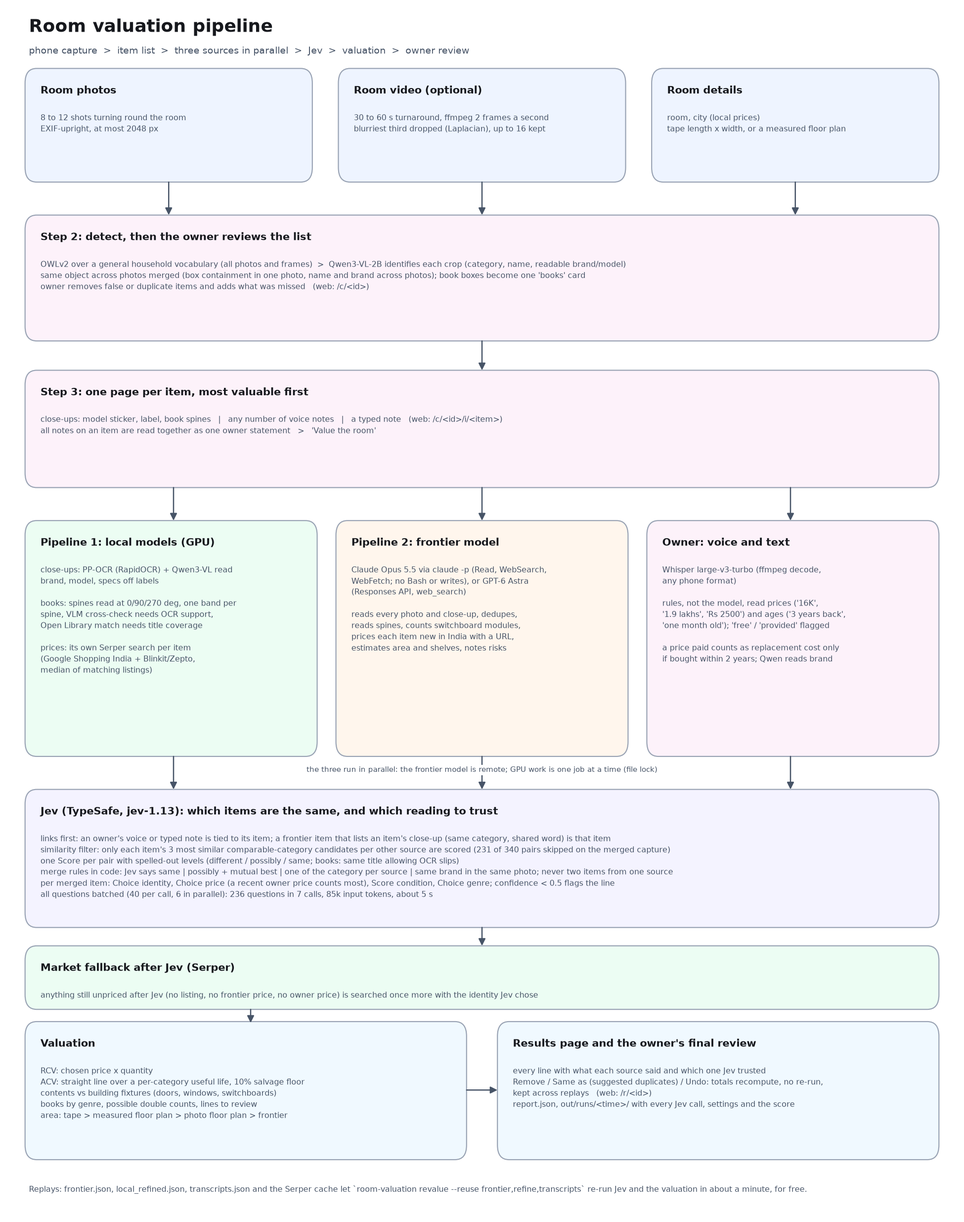
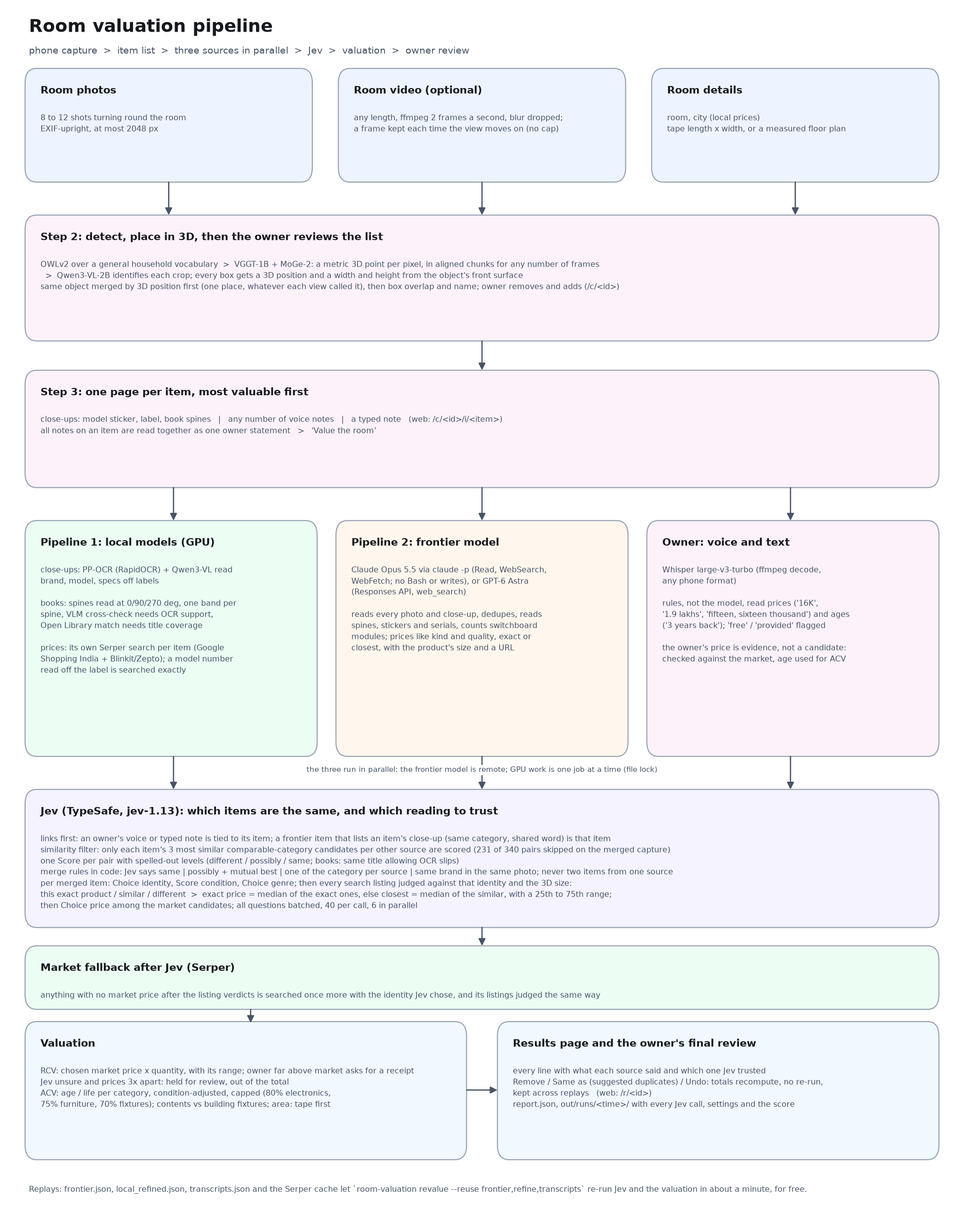
Results page and demo: price kind and range, held lines, listing verdicts, 3D tab
- Results: exact or closest under each price with its 25th to 75th range, held lines in
  yellow and out of the total, every listing with Jev's verdict and any size mismatch, the
  measured size.
- Demo: a 3D tab (top-down map and measured sizes), listing verdicts on the Jev tab, the
  new valuation rules, frames kept by coverage.
- Pipeline diagram redrawn.

diff --git a/web/static/demo.js b/web/static/demo.js
@@ -22,14 +22,14 @@ const byId = Object.fromEntries(D.items.map(i => [i.id, i]));
 const questions = Object.assign({}, ...D.jev_calls.map(c => Object.fromEntries(Object.entries(c.questions).map(([k, q]) => [k, { q, a: c.answers[k] }]))));
 
 const steps = [
-  ["Capture", capture], ["Detect", detect], ["Owner's list", ownerList], ["Item pages", itemPages],
+  ["Capture", capture], ["Detect", detect], ["3D", place3d], ["Owner's list", ownerList], ["Item pages", itemPages],
   ["Pipeline 1: local", pipeline1], ["Pipeline 2: Opus", pipeline2], ["Jev", jev], ["Valuation", valuation], ["Ground truth", truth],
 ];
 
 function capture() {
   const m = D.meta;
   return `<section><h2>Step 1: the owner photographs and films the room</h2>
-    ${say("Photos, a video or both. For a video the app takes 2 frames a second, drops the blurriest third and keeps up to 16. Everything below is the real capture, nothing staged.")}
+    ${say("Photos, a video or both. For a video the app takes 2 frames a second, drops motion blur, and keeps a frame each time the view has moved on to something new: no cap, so a longer walk-through of more room keeps more frames. Everything below is the real capture, nothing staged.")}
     <div class="stats">${stat(esc(m.room), esc(m.city) + " (local prices)")}${stat(roomPhotos.length, "room photos")}
       ${stat(frames.length, "sharp frames from the video")}${stat(closeups.length, "close-ups")}
       ${stat(D.items.reduce((n, i) => n + i.voice.length, 0), "voice notes")}
@@ -75,8 +75,31 @@ function showPhoto(p) {
   document.querySelectorAll("#viewer .box").forEach(b => b.onclick = () => {
     const d = dets[b.dataset.k], it = boxItem[boxKey(p, d.detector.box)];
     document.getElementById("boxinfo").innerHTML = `<b>OWLv2:</b> "${esc(d.detector.prompt)}" at ${d.detector.score.toFixed(2)} &nbsp; <b>Qwen3-VL:</b> ${esc(d.vlm?.category)} / ${esc(d.vlm?.name)}${d.vlm?.brand ? " / " + esc(d.vlm.brand) : ""}
-      ${it ? ` &nbsp; <b>Item:</b> ${esc(it.name)} (${esc(it.id)}, ${it.state === "removed" ? '<span class="flag">removed by the owner</span>' : "kept"})` : ""}`;
+      ${it ? ` &nbsp; <b>Item:</b> ${esc(it.name)} (${esc(it.id)}, ${it.state === "removed" ? '<span class="flag">removed by the owner</span>' : "kept"})` : ""}
+      ${it?.measured ? ` &nbsp; <b>3D:</b> about ${it.measured.width_cm} x ${it.measured.height_cm} cm, seen in ${it.measured.views} view${it.measured.views > 1 ? "s" : ""}` : ""}`;
   });
+}
+
+function place3d() {
+  const g = D.geometry, placed = D.items.filter(i => i.measured);
+  if (!g || !placed.length) return `<section><h2>3D</h2><p class="hint">This capture was detected before the 3D step existed.</p></section>`;
+  // Top-down map: x across, z down, one dot per item, coloured kept or removed.
+  const xs = placed.map(i => i.measured.position_m[0]), zs = placed.map(i => i.measured.position_m[2]);
+  const [x0, x1, z0, z1] = [Math.min(...xs), Math.max(...xs), Math.min(...zs), Math.max(...zs)];
+  const W = 640, H = Math.max(260, Math.round(W * (z1 - z0 + 0.6) / (x1 - x0 + 0.6)));
+  const px = x => 30 + (x - x0) / (x1 - x0 + 1e-6) * (W - 60), pz = z => 20 + (z - z0) / (z1 - z0 + 1e-6) * (H - 40);
+  const dots = placed.map(i => `<g><circle cx="${px(i.measured.position_m[0])}" cy="${pz(i.measured.position_m[2])}" r="${Math.min(14, 3 + Math.max(i.measured.width_cm, i.measured.height_cm) / 20)}"
+      fill="${i.state === "removed" ? "#f79009" : "#12b76a"}" fill-opacity=".55"><title>${esc(i.name)}: ${i.measured.width_cm} x ${i.measured.height_cm} cm</title></circle>
+      <text x="${px(i.measured.position_m[0]) + 8}" y="${pz(i.measured.position_m[2]) + 4}" font-size="10" fill="#344054">${esc(i.name.slice(0, 18))}</text></g>`).join("");
+  return `<section><h2>Step 2b: every object placed in 3D</h2>
+    ${say("VGGT turns every photo and frame into a 3D point per pixel and a camera pose, in one world; MoGe-2 gives the metric scale. Each detection box becomes the points of the object's front surface: their median is where the object is, their spread its width and height. Two boxes at one place are one object, whatever each view called it; two same-named objects far apart stay two. Sizes are estimates: they only rule out a product at nearly double or half the size.")}
+    <div class="stats">${stat(g.images, "photos and frames reconstructed")}${stat(g.chunks, "VGGT chunks, aligned")}${stat(g.metric_scale, "metric scale (MoGe-2)")}${stat(placed.length, "items placed")}</div></section>
+    <section><h2>Seen from above</h2><svg viewBox="0 0 ${W} ${H}" style="width:100%;max-width:${W}px;background:#fff;border:1px solid #e4e7ec;border-radius:8px">${dots}</svg>
+      <p class="hint">Green: kept by the owner. Orange: removed. Circle size follows the measured size.</p></section>
+    <section><h2>Measured sizes</h2><table><tr><th>Item</th><th>State</th><th class="num">Width</th><th class="num">Height</th><th class="num">Views</th><th class="num">Spread</th></tr>
+      ${placed.sort((a, b) => b.measured.width_cm * b.measured.height_cm - a.measured.width_cm * a.measured.height_cm).map(i => `<tr><td>${esc(nm(i.brand, i.name))}</td><td>${esc(i.state)}</td>
+        <td class="num">${i.measured.width_cm} cm</td><td class="num">${i.measured.height_cm} cm</td><td class="num">${i.measured.views}</td><td class="num">${i.measured.spread_m} m</td></tr>`).join("")}</table>
+      <p class="hint">Spread: how far apart the views put it. Large for a curtain seen along its length, small for a laptop.</p></section>`;
 }
 
 function card(i) {
@@ -174,10 +197,29 @@ function jev() {
       ${stat(D.jev_calls.length, "calls (40 questions each)")}${stat(Math.round(tot.t / 1000) + "k", "input tokens")}${stat(tot.s.toFixed(1) + " s", "Jev time")}</div>
     <div class="muted">What Jev is told about the sources</div><pre>${esc(JSON.stringify(D.jev_calls[0]?.state, null, 1))}</pre></section>
     ${pairIdx >= 0 ? `<section><h2>Example: are these two readings the same ${esc(pl.category.replace("_", " "))}?</h2>${jevQ("pair_" + pairIdx)}</section>` : ""}
+    ${listingExample()}
     ${lap ? `<section><h2>Example: which ${esc(lap.category.replace("_", " "))} price to trust?</h2>${jevQ("price_" + lap.n)}</section>` : ""}
     <section><h2>Any line: every question Jev was asked about it</h2>
       <select id="jevline">${R.items.map(l => `<option value="${l.n}">${l.name.replace(/<[^>]+>/g, "")}</option>`).join("")}</select>
       <div id="jevout" style="margin-top:10px"></div></section>`;
+}
+
+const VERDICT = { exact: "this product", similar: "similar product", different: "different product" };
+const listingRows = ls => ls.filter(li => li.verdict).map(li => `<tr><td>${esc(VERDICT[li.verdict])}</td><td>${esc(li.title)}${li.size_mismatch ? `<div class="flag">size: ${esc(li.size_mismatch)}</div>` : ""}</td>
+  <td class="num">${inr(li.price)}</td><td class="muted">${esc(li.seller || "")}</td><td class="num">${li.jev_score ?? ""}</td></tr>`).join("");
+
+function listingExample() {
+  const lj = R.listings_judged;
+  if (!lj) return "";
+  // the line whose local listings Jev split most ways
+  const kinds = l => new Set((l.candidates?.local?.listings || []).map(li => li.verdict)).size;
+  const ex = [...R.items].sort((a, b) => kinds(b) - kinds(a) || (b.rcv_inr || 0) - (a.rcv_inr || 0))[0];
+  const ls = ex?.candidates?.local?.listings || [];
+  return `<section><h2>Listings: is this the product, a similar one, or a different one?</h2>
+    ${say("After Jev settles what each item is, it reads every shopping listing behind a search price and judges it against that identity and the size measured in 3D. The exact price is the median of the listings of this product; failing that, the closest price is the median of the similar ones. A listing far from the measured size is a different product.")}
+    <div class="stats">${stat(lj.exact, "listings: this product")}${stat(lj.similar, "similar")}${stat(lj.different, "different")}</div>
+    ${ls.length ? `<h2>${label(ex)}: its local search listings</h2><table><tr><th>Jev</th><th>Listing</th><th class="num">Price</th><th>Seller</th><th class="num">Score</th></tr>${listingRows(ls)}</table>
+      <p class="hint">Priced at ${inr(ex.candidates.local.rcv_inr)} (${esc(ex.candidates.local.price_kind || "no price")}): ${esc(ex.candidates.local.price_note || "")}</p>` : ""}</section>`;
 }
 
 function showLine(n) {
@@ -186,6 +228,8 @@ function showLine(n) {
   document.getElementById("jevline").value = n;
   document.getElementById("jevout").innerHTML = `<p class="hint">Merged from: ${ids.map(esc).join(", ")}</p>` +
     ["id", "price", "cond", "genre"].map(t => questions[`${t}_${n}`] ? `<h2>${{ id: "Identity", price: "Price", cond: "Condition", genre: "Genre" }[t]}</h2>${jevQ(`${t}_${n}`)}` : "").join("") +
+    Object.entries(l.candidates || {}).filter(([, c]) => (c.listings || []).some(li => li.verdict)).map(([s, c]) =>
+      `<h2>Listings behind the ${s === "frontier" ? "Opus" : s} price</h2><table><tr><th>Jev</th><th>Listing</th><th class="num">Price</th><th>Seller</th><th class="num">Score</th></tr>${listingRows(c.listings)}</table>`).join("") +
     (pairs.length ? `<h2>Pair scores involving these items</h2><table><tr><th>a</th><th>b</th><th>same</th><th>possibly</th><th>different</th><th>score</th></tr>
       ${pairs.map(([p]) => `<tr><td>${esc(p.a)}</td><td>${esc(p.b)}</td><td>${pct(p.p_same)}</td><td>${pct(p.p_maybe)}</td><td>${pct(p.p_different)}</td><td>${p.score}</td></tr>`).join("")}</table>` : "");
 }
@@ -196,10 +240,11 @@ function valuation() {
   const lb = R.leaderboard || {};
   setTimeout(() => document.querySelectorAll("tr.line").forEach(tr => tr.onclick = () => toggle(tr)), 0);
   return `<section><h2>Valuation</h2>
-    ${say("RCV is the chosen price times quantity. ACV is straight-line over a per-category life, with a 10% salvage floor. Building fixtures are totalled apart, since they fall under the building policy.")}
+    ${say("RCV is the market price Jev trusts times quantity: exact when a listing is this model, otherwise the closest similar product, with the 25th to 75th percentile of its listings. The owner's own price is evidence, not a candidate: far above the market, the line asks for a receipt. When Jev is unsure and the prices are 3 or more times apart, the line is held for review and left out of the total. ACV is straight-line over a per-category life, adjusted for condition and capped as US adjusters do (80% for electronics, 75% furniture, 70% building fixtures, 50% books). Building fixtures are totalled apart, since they fall under the building policy.")}
     <div class="stats">${stat(inr(t.rcv_inr), "total replacement (RCV)")}${stat(inr(t.acv_inr), "after depreciation (ACV)")}
       ${stat(inr(t.contents.rcv_inr), "contents RCV")}${stat(inr(t.building_fixtures.rcv_inr), "building fixtures RCV")}
       ${stat(`${t.books.count}, ${inr(t.books.rcv_inr)}`, "books")}${stat(a.area_sqft ? a.area_sqft + " sq ft" : "–", esc(a.source || ""))}
+      ${t.held_for_review?.lines ? stat(`${inr(t.held_for_review.low_inr)} to ${inr(t.held_for_review.high_inr)}`, `${t.held_for_review.lines} lines held for review, not in the total`) : ""}
       ${stat(t.needs_review, "lines flagged for review")}</div>
     <p><a class="btn primary" href="/r/${esc(D.capture)}" target="_blank">Open the live review page (Remove / Same as / Undo)</a> <span class="hint">works when served by the app</span></p></section>
     <div class="cols"><section><h2>Floor area, every candidate</h2><table>${(a.candidates || []).map(c => `<tr><td>${esc(c.source)}</td><td class="num">${c.area_m2} m²</td><td class="num">${c.area_sqft} sq ft</td></tr>`).join("")}</table></section>
@@ -215,17 +260,20 @@ const isBuilding = l => D.building.includes(l.category);
 
 function row(l) {
   const cands = Object.entries(l.candidates || {}).filter(([, c]) => c.rcv_inr).map(([s, c]) => `${src(s, s === l.price_from)} ${inr(c.rcv_inr)}`).join(" &nbsp;");
-  return `<tr class="line" data-n="${l.n}"><td>${label(l)}${l.flags?.length ? `<div class="flag">${l.flags.map(esc).join("<br>")}</div>` : ""}</td>
-    <td>${l.quantity}</td><td class="num">${inr(l.rcv_inr)}</td><td class="num">${inr(l.acv_inr)}</td><td>${cands || "–"}</td></tr>`;
+  const under = l.held ? `<div class="flag">held: ${inr(l.held.low_inr)} to ${inr(l.held.high_inr)}</div>`
+    : `<div class="muted" style="font-size:12px">${esc(l.price_kind || "")}${l.price_range_inr && l.price_range_inr[0] !== l.price_range_inr[1] ? ` ${inr(l.price_range_inr[0])} to ${inr(l.price_range_inr[1])}` : ""}</div>`;
+  return `<tr class="line" data-n="${l.n}" ${l.held ? 'style="background:#fffaeb"' : ""}><td>${label(l)}${l.flags?.length ? `<div class="flag">${l.flags.map(esc).join("<br>")}</div>` : ""}</td>
+    <td>${l.quantity}</td><td class="num">${inr(l.rcv_inr)}${under}</td><td class="num">${inr(l.acv_inr)}</td><td>${cands || "–"}</td></tr>`;
 }
 
 function toggle(tr) {
   if (tr.nextElementSibling?.classList.contains("detail")) return tr.nextElementSibling.remove();
   const l = R.items.find(x => x.n === +tr.dataset.n);
-  const c = Object.entries(l.candidates || {}).map(([s, x]) => `<div style="margin-bottom:6px">${src(s, s === l.price_from)} <b>${esc(nm(x.brand, x.name))}</b> ${inr(x.rcv_inr)}
-    <div class="muted" style="font-size:12px">${esc(x.price_note || "")} ${link(x.price_source)}</div></div>`).join("");
+  const c = Object.entries(l.candidates || {}).map(([s, x]) => `<div style="margin-bottom:6px">${src(s, s === l.price_from)} <b>${esc(nm(x.brand, x.name))}</b> ${inr(x.rcv_inr)}${x.price_kind ? ` <span class="muted">(${esc(x.price_kind)})</span>` : ""}
+    <div class="muted" style="font-size:12px">${esc(x.price_note || "")} ${link(x.price_source)}${x.product_size ? ` · product size ${esc(x.product_size)}` : ""}</div></div>`).join("");
+  const m = l.measured ? `<p class="hint">Measured in 3D: about ${l.measured.width_cm} x ${l.measured.height_cm} cm from ${l.measured.views} view${l.measured.views > 1 ? "s" : ""}</p>` : "";
   tr.insertAdjacentHTML("afterend", `<tr class="detail"><td colspan="5"><div class="cols"><div><div class="grid small">${(l.photos || []).slice(0, 8).map(p => pic(p, false)).join("")}</div>
-    <p class="hint">ACV: ${esc(l.acv_basis || "")}</p></div><div>${c}<div class="muted" style="margin-top:8px">Identity (Jev)</div>${bars(l.identity_probs)}
+    <p class="hint">ACV: ${esc(l.acv_basis || "")}</p>${m}${l.owner_price_inr ? `<p class="hint">The owner said they paid ${inr(l.owner_price_inr)}${l.age_years != null ? ", " + esc(ago(l.age_years)) : ""}</p>` : ""}</div><div>${c}<div class="muted" style="margin-top:8px">Identity (Jev)</div>${bars(l.identity_probs)}
     <div class="muted" style="margin-top:8px">Price (Jev)</div>${bars(l.price_probs)}</div></div></td></tr>`);
   tr.nextElementSibling.querySelectorAll("img").forEach(zoomable);
 }
@@ -235,9 +283,9 @@ function truth() {
   if (!s) return `<section><p class="hint">No ground truth for this capture.</p></section>`;
   const recent = s.items.filter(i => i.rcv_error_pct != null);
   return `<section><h2>Against the owner's ground truth</h2>
-    ${say("What the owner paid, from memory. The pipeline never reads it; scoring runs after. Error is computed only where the purchase is within 2 years, so the price paid is a fair replacement cost.")}
+    ${say("What the owner paid, from memory. The pipeline never reads it; scoring runs after. Error is computed only where the purchase is within 2 years, so the price paid is a fair replacement cost. The owner's own price is only evidence now, so this is the error of the market prices the pipelines found.")}
     <div class="stats">${stat(s.summary.split(" ")[0], "ground-truth items found")}${stat(pct(recent.reduce((a, i) => a + Math.abs(i.rcv_error_pct), 0) / recent.length / 100), "mean RCV error, " + recent.length + " recent purchases")}</div>
-    <p class="hint">Honest reading: on ${recent.filter(i => i.chosen_from === "voice").length} of the ${recent.length}, Jev chose the owner's own price, so the headline mostly measures that choice. The last two columns show each pipeline alone.</p></section>
+    <p class="hint">${recent.filter(i => i.chosen_from === "voice").length ? `On ${recent.filter(i => i.chosen_from === "voice").length} of the ${recent.length}, only the owner priced it. ` : ""}The last two columns show each pipeline alone. The biggest miss is an item priced as a cheaper version of itself, which a model sticker or a receipt fixes.</p></section>
     <section><table><tr><th>Owner's item</th><th class="num">Paid</th><th class="num">Age (y)</th><th>Candidates</th><th class="num">RCV</th><th class="num">Error</th><th class="num">Local alone</th><th class="num">Opus alone</th></tr>
       ${s.items.map(i => `<tr><td>${esc(i.truth)}${i.found ? "" : ' <span class="flag">not found</span>'}</td><td class="num">${inr(i.paid_inr)}</td><td class="num">${i.age_years ?? "–"}</td>
         <td>${Object.entries(i.candidates_inr || {}).filter(([, v]) => v).map(([k, v]) => `${src(k, k === i.chosen_from)} ${inr(v)}`).join(" &nbsp;")}</td>

diff --git a/web/results.html b/web/results.html
@@ -35,6 +35,10 @@
   .stages .done { color:#067647; } .stages .failed { color:#b42318; } .stages .running { color:var(--accent); }
   a { color:var(--accent); }
   img.plan { max-width:100%; border-radius:8px; }
+  tr.item.held td { background:#fffaeb; }
+  .kind { font-size:11px; color:var(--muted); }
+  ul.listings { margin:4px 0 6px 18px; padding:0; font-size:13px; }
+  ul.listings .exact { color:#067647; } ul.listings .similar { color:var(--fg); } ul.listings .different { color:var(--muted); text-decoration:line-through; }
 </style>
 </head>
 <body>
@@ -44,7 +48,7 @@
   <div id="report" hidden>
     <div class="tiles" id="tiles"></div>
     <h2>Items</h2>
-    <p class="muted">Tap a row for what each source said. Chips show the sources that saw the item; the highlighted one is the source Jev trusted. RCV is replacement cost new, ACV is after depreciation.</p>
+    <p class="muted">Tap a row for what each source said and the listings behind each price. Chips show the sources that saw the item; the highlighted one is the source Jev trusted. RCV is replacement cost new (exact: this model; closest: the nearest similar product), with the 25th to 75th percentile of its listings under it. ACV is after depreciation. Yellow lines are held for review and are not in the total.</p>
     <div class="card"><table id="items"></table></div>
     <h2>How the sources ranked (Jev)</h2>
     <div class="card"><table id="board"></table></div>
@@ -96,6 +100,7 @@ async function show() {
     ["Items", t.items + (t.unpriced ? ` (${t.unpriced} unpriced)` : "")], ["Needs review", t.needs_review],
     ["Your review", r.review_summary ? `${r.review_summary.removed} removed, ${r.review_summary.duplicates} duplicates` : "none"],
     ["Possible double count", inr(t.possible_double_count_inr)],
+    ["Held for review", t.held_for_review && t.held_for_review.lines ? `${t.held_for_review.lines}: ${inr(t.held_for_review.low_inr)} to ${inr(t.held_for_review.high_inr)}` : "none"],
     ["Floor area", a.area_m2 ? `${a.area_sqft} sq ft` : "–"], ["Books", `${t.books.count} (${inr(t.books.rcv_inr)})`],
     ["Shelves", shelves], ["Pipeline 2", r.backend],
   ].map(([k, v]) => `<div class="tile"><div class="v">${esc(v)}</div><div class="k">${k}</div></div>`).join("");
@@ -114,11 +119,18 @@ async function show() {
     const chips = it.sources.map(s => `<span class="chip ${s === it.identity_from ? "win" : ""}">${s}${s === it.identity_from && it.identity_confidence != null ? pct(it.identity_confidence) : ""}</span>`).join("");
     const src = it.price_source && it.price_source.startsWith("http") ? `<a href="${esc(it.price_source)}" target="_blank" rel="noopener">${esc(it.price_from)}</a>` : esc(it.price_from || "–");
     const flags = it.flags.length ? `<div class="flag">${it.flags.map(esc).join("<br>")}</div>` : "";
-    rows.push(`<tr class="item ${it.review ? "out" : ""}" data-n="${it.n}"><td>${title}${flags}${it.suggest_duplicate_of && !it.review ? `<div class="flag">suggested duplicate of ${esc(label(r.items.find(o => o.key === it.suggest_duplicate_of) || {}))}</div>` : ""}</td><td>${chips}</td><td>${esc(it.condition || "–")}</td><td class="num">${inr(it.rcv_inr)}</td><td class="num">${inr(it.acv_inr)}</td><td>${src}${it.price_confidence != null ? `<div class="muted">Jev${pct(it.price_confidence)}</div>` : ""}</td>${reviewCell(it)}</tr>`);
-    const cands = Object.entries(it.candidates).map(([s, c]) => `<div><b>${s}</b>: ${esc([c.brand, c.model, c.name].filter(Boolean).join(" "))}, ${inr(c.rcv_inr)} <span class="muted">${esc(c.price_note || "")}</span> ${c.price_source && c.price_source.startsWith("http") ? `<a href="${esc(c.price_source)}" target="_blank" rel="noopener">source</a>` : esc(c.price_source || "")}</div>`).join("");
+    const range = it.held ? `<div class="kind">held: ${inr(it.held.low_inr)} to ${inr(it.held.high_inr)}</div>`
+      : it.price_range_inr && it.price_range_inr[0] !== it.price_range_inr[1] ? `<div class="kind">${inr(it.price_range_inr[0])} to ${inr(it.price_range_inr[1])}</div>` : "";
+    const kind = it.price_kind ? `<div class="kind">${esc(it.price_kind)}</div>` : "";
+    rows.push(`<tr class="item ${it.review ? "out" : ""} ${it.held ? "held" : ""}" data-n="${it.n}"><td>${title}${flags}${it.suggest_duplicate_of && !it.review ? `<div class="flag">suggested duplicate of ${esc(label(r.items.find(o => o.key === it.suggest_duplicate_of) || {}))}</div>` : ""}</td><td>${chips}</td><td>${esc(it.condition || "–")}</td><td class="num">${inr(it.rcv_inr)}${range}</td><td class="num">${inr(it.acv_inr)}</td><td>${src}${kind}${it.price_confidence != null ? `<div class="muted">Jev${pct(it.price_confidence)}</div>` : ""}</td>${reviewCell(it)}</tr>`);
+    const MARK = { exact: "this product", similar: "similar", different: "different" };
+    const listings = c => (c.listings || []).filter(li => li.verdict).length ? `<ul class="listings">${c.listings.filter(li => li.verdict).map(li =>
+      `<li class="${li.verdict}">${MARK[li.verdict]}: ${li.url ? `<a href="${esc(li.url)}" target="_blank" rel="noopener">${esc(li.title)}</a>` : esc(li.title)}, ${inr(li.price)}${li.seller ? " · " + esc(li.seller) : ""}${li.size_mismatch ? ` <span class="flag">size: ${esc(li.size_mismatch)}</span>` : ""}</li>`).join("")}</ul>` : "";
+    const cands = Object.entries(it.candidates).map(([s, c]) => `<div><b>${s}</b>: ${esc([c.brand, c.model, c.name].filter(Boolean).join(" "))}, ${inr(c.rcv_inr)}${c.price_kind ? ` (${esc(c.price_kind)})` : ""}${c.product_size ? ` <span class="muted">product size ${esc(c.product_size)}</span>` : ""} <span class="muted">${esc(c.price_note || "")}</span> ${c.price_source && c.price_source.startsWith("http") ? `<a href="${esc(c.price_source)}" target="_blank" rel="noopener">source</a>` : esc(c.price_source || "")}${listings(c)}</div>`).join("");
+    const measured = it.measured ? `<div class="muted">measured in 3D: about ${it.measured.width_cm} cm wide, ${it.measured.height_cm} cm high, from ${it.measured.views} view${it.measured.views > 1 ? "s" : ""}</div>` : "";
     const probs = ["identity", "price"].map(k => Object.keys(it[k + "_probs"]).length ? `<div class="muted">Jev ${k}: ${Object.entries(it[k + "_probs"]).map(([s, p]) => `${s} ${(100 * p).toFixed(0)}%`).join(", ")}</div>` : "").join("");
     const imgs = it.photos.map(p => `<img src="${api}/photo/${encodeURIComponent(p)}" loading="lazy">`).join("");
-    rows.push(`<tr class="detail" id="d${it.n}" hidden><td colspan="7">${cands}${probs}<div class="muted">${esc(it.acv_basis || "")}${it.price_paid_inr ? ` · owner paid ${inr(it.price_paid_inr)}${it.age_years != null ? ", " + it.age_years + " y ago" : ""}` : ""}</div>${imgs}</td></tr>`);
+    rows.push(`<tr class="detail" id="d${it.n}" hidden><td colspan="7">${cands}${probs}${measured}<div class="muted">${esc(it.acv_basis || "")}${it.price_paid_inr ? ` · owner paid ${inr(it.price_paid_inr)}${it.age_years != null ? ", " + it.age_years + " y ago" : ""}` : ""}</div>${imgs}</td></tr>`);
   }
   const tbl = document.getElementById("items");
   tbl.innerHTML = rows.join("");

diff --git a/scripts/draw_pipeline.py b/scripts/draw_pipeline.py
@@ -44,16 +44,16 @@ def main():
     # 1. inputs
     box(ax, 0.03, 0.855, 0.29, 0.085, "Room photos", "8 to 12 shots turning round the room\nEXIF-upright, at most 2048 px", "input")
     box(ax, 0.355, 0.855, 0.29, 0.085, "Room video (optional)",
-        "30 to 60 s turnaround, ffmpeg 2 frames a second\nblurriest third dropped (Laplacian), up to 16 kept", "input")
+        "any length, ffmpeg 2 frames a second, blur dropped;\na frame kept each time the view moves on (no cap)", "input")
     box(ax, 0.68, 0.855, 0.29, 0.085, "Room details", "room, city (local prices)\ntape length x width, or a measured floor plan", "input")
     for x in (0.175, 0.5, 0.825):
         arrow(ax, x, 0.851, x, 0.824)
 
     # 2. detection and review
-    box(ax, 0.03, 0.725, 0.94, 0.095, "Step 2: detect, then the owner reviews the list",
-        "OWLv2 over a general household vocabulary (all photos and frames)  >  Qwen3-VL-2B identifies each crop (category, name, readable brand/model)\n"
-        "same object across photos merged (box containment in one photo, name and brand across photos); book boxes become one 'books' card\n"
-        "owner removes false or duplicate items and adds what was missed   (web: /c/<id>)", "owner")
+    box(ax, 0.03, 0.725, 0.94, 0.095, "Step 2: detect, place in 3D, then the owner reviews the list",
+        "OWLv2 over a general household vocabulary  >  VGGT-1B + MoGe-2: a metric 3D point per pixel, in aligned chunks for any number of frames\n"
+        "  >  Qwen3-VL-2B identifies each crop; every box gets a 3D position and a width and height from the object's front surface\n"
+        "same object merged by 3D position first (one place, whatever each view called it), then box overlap and name; owner removes and adds (/c/<id>)", "owner")
     arrow(ax, 0.5, 0.721, 0.5, 0.697)
 
     # 3. per item pages
@@ -68,15 +68,15 @@ def main():
         "close-ups: PP-OCR (RapidOCR) + Qwen3-VL read\nbrand, model, specs off labels\n\n"
         "books: spines read at 0/90/270 deg, one band per\nspine, VLM cross-check needs OCR support,\n"
         "Open Library match needs title coverage\n\n"
-        "prices: its own Serper search per item\n(Google Shopping India + Blinkit/Zepto,\nmedian of matching listings)", "local")
+        "prices: its own Serper search per item (Google\nShopping India + Blinkit/Zepto); a model number\nread off the label is searched exactly", "local")
     box(ax, 0.3525, 0.385, 0.295, 0.185, "Pipeline 2: frontier model",
         "Claude Opus 5.5 via claude -p (Read, WebSearch,\nWebFetch; no Bash or writes), or GPT-6 Astra\n(Responses API, web_search)\n\n"
-        "reads every photo and close-up, dedupes,\nreads spines, counts switchboard modules,\n"
-        "prices each item new in India with a URL,\nestimates area and shelves, notes risks", "frontier")
+        "reads every photo and close-up, dedupes, reads\nspines, stickers and serials, counts switchboard\n"
+        "modules; prices like kind and quality, exact or\nclosest, with the product's size and a URL", "frontier")
     box(ax, 0.675, 0.385, 0.295, 0.185, "Owner: voice and text",
         "Whisper large-v3-turbo (ffmpeg decode,\nany phone format)\n\n"
-        "rules, not the model, read prices ('16K',\n'1.9 lakhs', 'Rs 2500') and ages ('3 years back',\n'one month old'); 'free' / 'provided' flagged\n\n"
-        "a price paid counts as replacement cost only\nif bought within 2 years; Qwen reads brand", "owner")
+        "rules, not the model, read prices ('16K',\n'1.9 lakhs', 'fifteen, sixteen thousand') and ages\n('3 years back'); 'free' / 'provided' flagged\n\n"
+        "the owner's price is evidence, not a candidate:\nchecked against the market, age used for ACV", "owner")
     ax.text(0.5, 0.370, "the three run in parallel: the frontier model is remote; GPU work is one job at a time (file lock)",
             fontsize=8.5, color=MUTED, ha="center", va="center", zorder=6,
             bbox={"fc": "white", "ec": "none", "pad": 1.5})
@@ -89,18 +89,19 @@ def main():
         "similarity filter: only each item's 3 most similar comparable-category candidates per other source are scored (231 of 340 pairs skipped on the merged capture)\n"
         "one Score per pair with spelled-out levels (different / possibly / same; books: same title allowing OCR slips)\n"
         "merge rules in code: Jev says same | possibly + mutual best | one of the category per source | same brand in the same photo; never two items from one source\n"
-        "per merged item: Choice identity, Choice price (a recent owner price counts most), Score condition, Choice genre; confidence < 0.5 flags the line\n"
-        "all questions batched (40 per call, 6 in parallel): 236 questions in 7 calls, 85k input tokens, about 5 s", "jev")
+        "per merged item: Choice identity, Score condition, Choice genre; then every search listing judged against that identity and the 3D size:\n"
+        "this exact product / similar / different  >  exact price = median of the exact ones, else closest = median of the similar, with a 25th to 75th range;\n"
+        "then Choice price among the market candidates; all questions batched, 40 per call, 6 in parallel", "jev")
     arrow(ax, 0.5, 0.241, 0.5, 0.226)
     box(ax, 0.03, 0.178, 0.94, 0.044, "Market fallback after Jev (Serper)",
-        "anything still unpriced after Jev (no listing, no frontier price, no owner price) is searched once more with the identity Jev chose", "local")
+        "anything with no market price after the listing verdicts is searched once more with the identity Jev chose, and its listings judged the same way", "local")
     arrow(ax, 0.26, 0.174, 0.26, 0.163)
 
     # 6. valuation and review
     box(ax, 0.03, 0.055, 0.45, 0.105, "Valuation",
-        "RCV: chosen price x quantity\nACV: straight line over a per-category useful life, 10% salvage floor\n"
-        "contents vs building fixtures (doors, windows, switchboards)\nbooks by genre, possible double counts, lines to review\n"
-        "area: tape > measured floor plan > photo floor plan > frontier", "value")
+        "RCV: chosen market price x quantity, with its range; owner far above market asks for a receipt\n"
+        "Jev unsure and prices 3x apart: held for review, out of the total\n"
+        "ACV: age / life per category, condition-adjusted, capped (80% electronics,\n75% furniture, 70% fixtures); contents vs building fixtures; area: tape first", "value")
     box(ax, 0.52, 0.055, 0.45, 0.105, "Results page and the owner's final review",
         "every line with what each source said and which one Jev trusted\n"
         "Remove / Same as (suggested duplicates) / Undo: totals recompute, no re-run,\nkept across replays   (web: /r/<id>)\n"

diff --git a/scripts/build_demo.py b/scripts/build_demo.py
@@ -90,7 +90,8 @@ def main():
             voice.append({"file": name, "text": " ".join(s["text"].strip() for s in segs)})
         items.append({k: it.get(k) for k in ("id", "state", "category", "name", "brand", "model", "quantity", "thumb", "note")}
                      | {"closeups": sorted(p.name for p in (cap / "out" / "photos").glob(f"item_{it['id']}_closeup_*.jpg")),
-                        "voice": voice, "regions": (it.get("detected") or {}).get("regions", [])})
+                        "voice": voice, "regions": (it.get("detected") or {}).get("regions", []),
+                        "measured": (it.get("detected") or {}).get("measured")})
 
     jc = run / "jev_calls.jsonl"
     calls = [json.loads(ln) for ln in jc.read_text().splitlines()] if jc.exists() else []
@@ -102,7 +103,8 @@ def main():
         "photos": photos,
         "video": bool(video),
         "plan": (m / "floor_plan.png").exists(),
-        "detections": load(cap / "out" / "detect_log.json", []),
+        "detections": [d for d in load(cap / "out" / "detect_log.json", []) if "photo" in d],
+        "geometry": next((d["geometry"] for d in load(cap / "out" / "detect_log.json", []) if "geometry" in d), None),
         "items": items,
         "local_log": load(run / "local_log.json") or load(cap / "out" / "local_log.json", []),
         "local": load(run / "local.json"),
